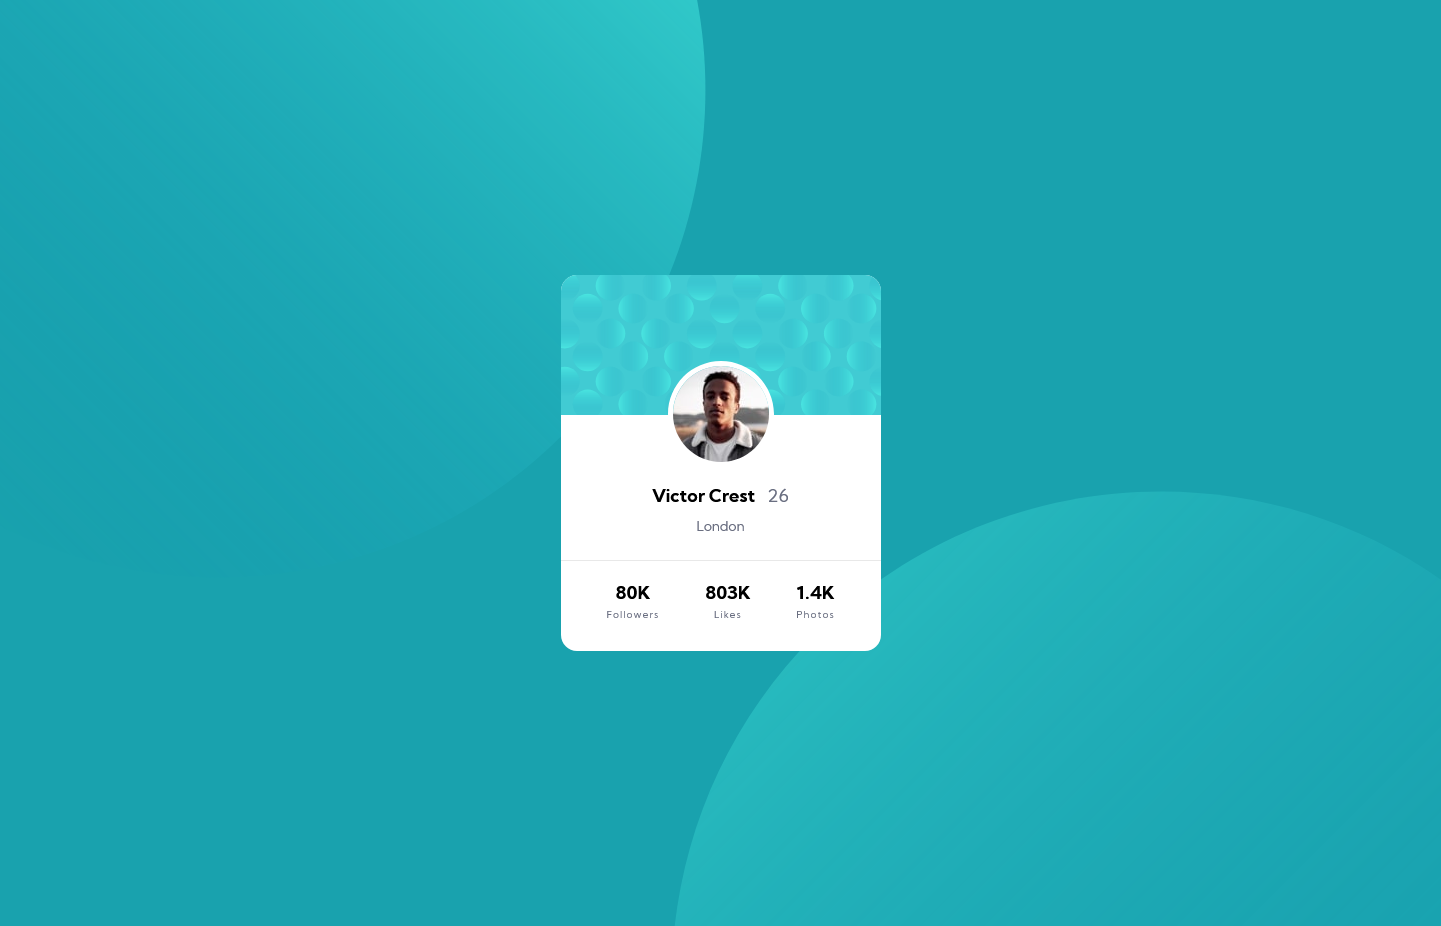
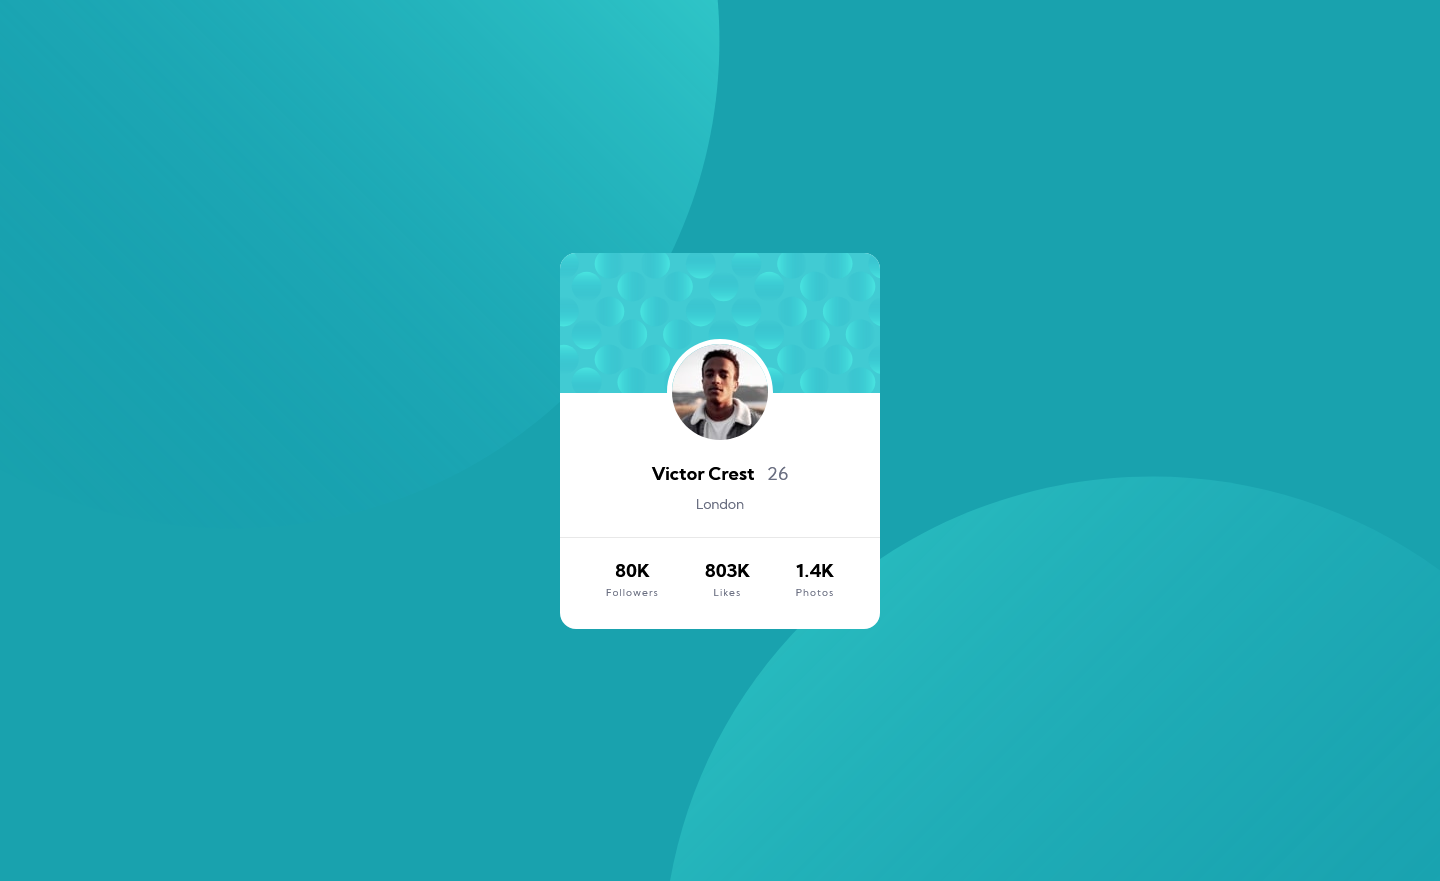
Circles and Screenshot updated

diff --git a/css/style.css b/css/style.css
@@ -21,21 +21,15 @@ body {
   display: flex;
   justify-content: center;
   align-items: center;
+  margin: auto;
+
   background-color: var(--clr-darkcyan);
-}
 
-.img--top {
-  position: absolute;
-  left: -17rem;
-  top: -25rem;
-  z-index: -10;
-}
-
-.img--bottom {
-  position: absolute;
-  right: -13rem;
-  bottom: -35rem;
-  z-index: -10;
+  background-image: url("../images/bg-pattern-top.svg"),
+    url("../images/bg-pattern-bottom.svg");
+  background-repeat: no-repeat;
+  background-position: right 50vw bottom 40vh, left 46vw top 54vh;
+  background-attachment: fixed;
 }
 
 main {

diff --git a/index.html b/index.html
@@ -16,16 +16,6 @@
     <link rel="stylesheet" href="./css/style.css" />
   </head>
   <body>
-    <img
-      src="./images/bg-pattern-top.svg"
-      alt="Background Circle"
-      class="img--top"
-    />
-    <img
-      src="./images/bg-pattern-bottom.svg"
-      alt="Background Circle"
-      class="img--bottom"
-    />
     <main>
       <section class="card--top">
         <img
